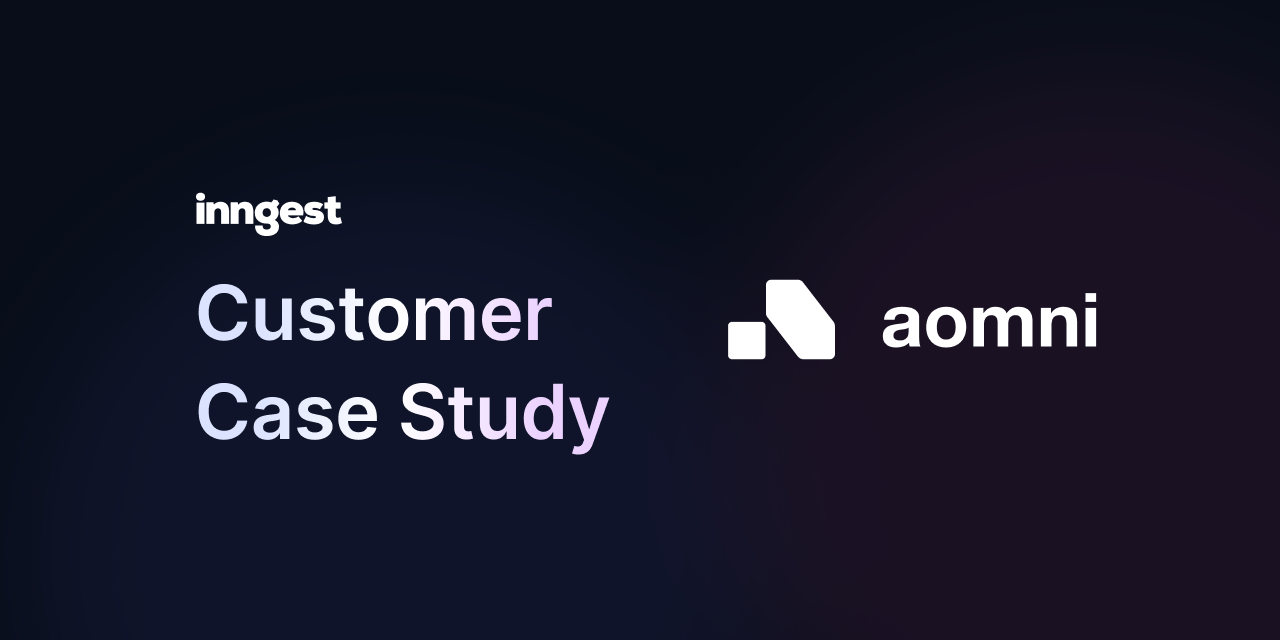
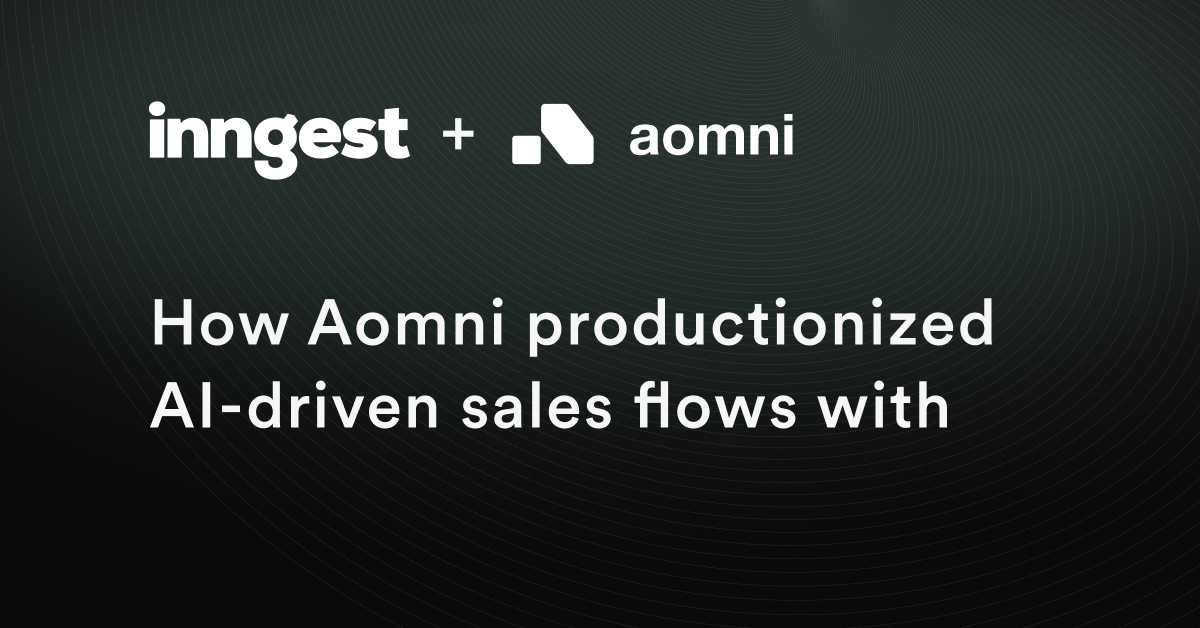
Update story og images. Otto live.

diff --git a/pages/customers/index.tsx b/pages/customers/index.tsx
@@ -39,15 +39,15 @@ const caseStudies: {
     snippet: "Building scalable video pipelines with Inngest.",
     tags: ["Workflows"],
   },
-  // {
-  //   href: "/customers/otto",
-  //   logo: "/assets/customers/otto-logo.svg",
-  //   name: "Otto",
-  //   title: "Leveraging multi-tenant concurrency to scale AI workflows",
-  //   snippet:
-  //     "How Otto uses flow control and orchestration to build AI Agents that are as easy as a spreadsheet.",
-  //   tags: ["AI"],
-  // },
+  {
+    href: "/customers/otto",
+    logo: "/assets/customers/otto-logo.svg",
+    name: "Otto",
+    title: "Leveraging multi-tenant concurrency to scale AI workflows",
+    snippet:
+      "How Otto uses flow control and orchestration to build AI Agents that are as easy as a spreadsheet.",
+    tags: ["AI"],
+  },
   {
     href: "/customers/gitbook",
     logo: "/assets/customers/gitbook-logo-white.svg",
